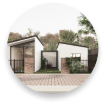
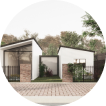
베스트모델 작업

diff --git a/src/views/Home.vue b/src/views/Home.vue
@@ -78,12 +78,14 @@
         </div>        
         <div class="overlap-6">
           <div class="group-9">
-            <div class="overlap-group-3">
-              <img class="element-6" :src="bestModel.selected.imageSrc" />
-              <div class="text-wrapper-18">{{ bestModel.selected.model }}</div>
-              <p class="text-wrapper-17">{{ bestModel.selected.title }}</p>
-              <div class="text-wrapper-19">{{ bestModel.selected.price }} Won</div>
-            </div>
+            <transition name="fade">
+              <div v-if="bestModel.isModelShow" class="overlap-group-3">
+                <img class="element-6" :src="bestModel.selected?.imageSrc" />
+                <div class="text-wrapper-18">{{ bestModel.selected.model }}</div>
+                <p class="text-wrapper-17">{{ bestModel.selected.title }}</p>
+                <div class="text-wrapper-19">{{ bestModel.selected.price }} Won</div>
+              </div>
+            </transition>
           </div>
           <div class="group-10" @click="goNext()"><img class="vector-3" src="@/assets/img/vector-1-3.svg" /></div>
           <div class="group-11" @click="goPrev()"><img class="vector-4" src="@/assets/img/vector-1-2.svg" /></div>
@@ -174,41 +176,36 @@ export default {
       bestModel: {
         selected: {},
         currentIndex: 0,
+        isModelShow: true,
         list: [{
-          imageSrc: require('@/assets/img/1-11-2.png'),
+          imageSrc: require('@/assets/img/main1.png'),
           title: 'See our best models here.',
           model: 'CNK-01-XX-XX',
           price: '398,550,000'
         },
         {
-          imageSrc: require('@/assets/img/1-7.png'),
+          imageSrc: require('@/assets/img/main2.png'),
           title: 'See our best models here.',
           model: 'CNK-02-XX-XX',
           price: '393,550,000'
         },
         {
-          imageSrc: require('@/assets/img/1-10-3.png'),
+          imageSrc: require('@/assets/img/main3.png'),
           title: 'See our best models here.',
           model: 'CNK-03-XX-XX',
           price: '392,550,000'
         },
         {
-          imageSrc: require('@/assets/img/1-11-2.png'),
+          imageSrc: require('@/assets/img/main4.png'),
           title: 'See our best models here.',
           model: 'CNK-04-XX-XX',
           price: '397,550,000'
         },
         {
-          imageSrc: require('@/assets/img/1-7.png'),
+          imageSrc: require('@/assets/img/main5.png'),
           title: 'See our best models here.',
           model: 'CNK-05-XX-XX',
           price: '399,550,000'
-        },
-        {
-          imageSrc: require('@/assets/img/1-10-3.png'),
-          title: 'See our best models here.',
-          model: 'CNK-06-XX-XX',
-          price: '391,550,000'
         }]
       }
     }
@@ -245,6 +242,7 @@ export default {
       }
     },
     goNext() {
+      this.bestModel.isModelShow = false;
       const { selected, list } = this.bestModel;
       const currentIndex = list.findIndex((obj) => {
         return JSON.stringify(obj) === JSON.stringify(selected);
@@ -259,6 +257,7 @@ export default {
         this.bestModel.selected = list[0];
         this.bestModel.currentIndex = 0;
       }
+      this.bestModel.isModelShow = true;
     },
     getCurrentImage(index) {
       const { list } = this.bestModel;

diff --git a/src/assets/scss/style.scss b/src/assets/scss/style.scss
@@ -742,6 +742,7 @@
   width: 100%;
   height: 497px;
   display: flex;
+  margin: 20px 0 0 0;
 }
 
 .mainpage .overlap-4 {
@@ -749,26 +750,23 @@
   width: 30%;
   height: 307px;
   top: 81px;
-  right: 8px;
+  right: 397px;
   display: inline-flex;
+  gap: 3%;
 }
 
 .mainpage .element-2 {
   width: 464px;
   height: 304px;
-  top: 3px;
-  right: 460px;
-  position: absolute;
   object-fit: cover;
+  border-radius: 30px;
 }
 
 .mainpage .element-3 {
   width: 464px;
   height: 304px;
-  top: 3px;
-  left: 130px;
-  position: absolute;
   object-fit: cover;
+  border-radius: 30px;
 }
 
 .mainpage .overlap-5 {
@@ -776,20 +774,23 @@
   width: 30%;
   height: 306px;
   top: 81px;
-  left: 63px;
+  left: 88px;
   display: inline-flex;
+  gap: 3%;
 }
 
 .mainpage .element-4 {
   width: 464px;
   height: 304px;
   object-fit: cover;
+  border-radius: 30px;
 }
 
 .mainpage .element-5 {
   width: 464px;
   height: 304px;
   object-fit: cover;
+  border-radius: 30px;
 }
 
 .mainpage .overlap-6 {
@@ -837,6 +838,7 @@
   width: 669px;
   height: 432px;
   object-fit: cover;
+  border-radius: 30px;
 }
 
 .mainpage .text-wrapper-19 {
@@ -855,11 +857,11 @@
   width: 59px;
   height: 59px;
   top: 196px;
-  right: -4px;
-  background-color: #ffffffb0;
+  right: -35px;
+  background-color: rgba(255, 255, 255, 0.6901960784);
   border-radius: 29.5px;
   border: 1px solid;
-  border-color: #959595b0;
+  border-color: rgba(149, 149, 149, 0.6901960784);
   cursor: pointer;
 }
 
@@ -876,11 +878,11 @@
   width: 59px;
   height: 59px;
   top: 196px;
-  right: 610px;
-  background-color: #ffffffb0;
+  right: 640px;
+  background-color: rgba(255, 255, 255, 0.6901960784);
   border-radius: 29.5px;
   border: 1px solid;
-  border-color: #959595b0;
+  border-color: rgba(149, 149, 149, 0.6901960784);
   transform: rotate(180deg);
   cursor: pointer;
 }
